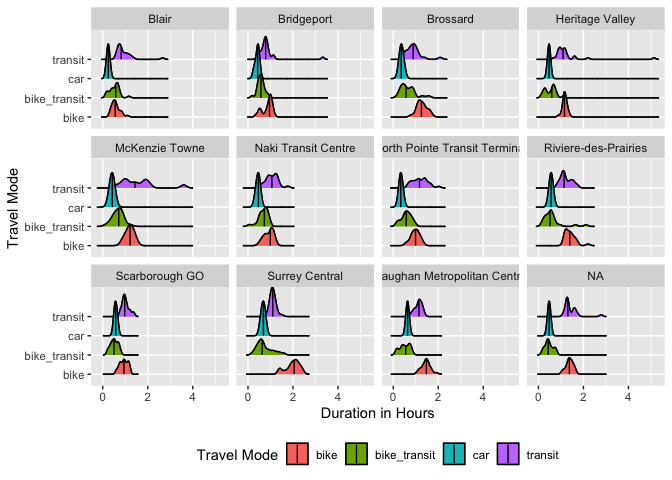
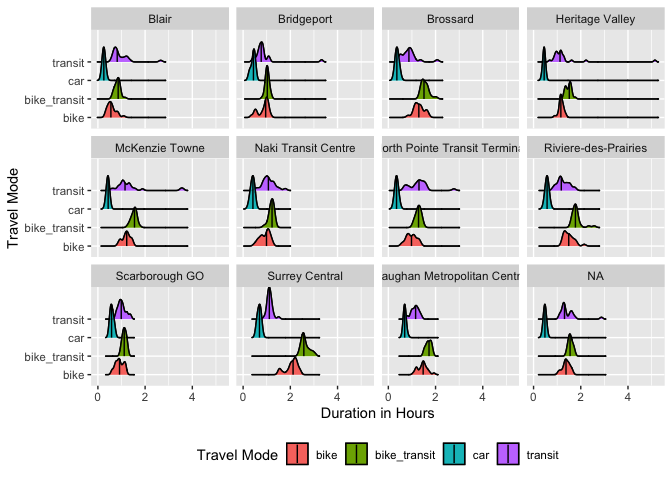
Rerun analysis after error fix from bike+transit calculation

diff --git a/data_analysis.md b/data_analysis.md
@@ -123,7 +123,7 @@ Once all of the routes were calculated the travel time and travel distance eleme
 ## Joining Data
 
 
-```r
+``` r
 data <- bind_rows(barrhaven, blair, scar, vaughn, bross, rivier, mckenzie, np, heritage, naki, surrey, bridge)
 
 data_bike <- bind_rows(barrhaven_bike, blair_bike, scar_bike, vaughn_bike, bross_bike, rivier_bike, mckenzie_bike, np_bike, heritage_bike, naki_bike, surrey_bike, bridge_bike)
@@ -133,7 +133,7 @@ write_csv(data_bike, file = "bike_transit_city_data.csv")
 ```
 
 
-```r
+``` r
 summary_data <- data %>% 
   group_by(station) %>%
     summarize(n = n())
@@ -165,7 +165,7 @@ Descriptive analysis will be conducted to describe the trip time and distance fo
 ##### Table 2. Descriptive statisics for travel time and mode by trip type by station
 
 
-```r
+``` r
 rm_covsum(data=data, maincov = 'station', pvalue = FALSE, IQR = TRUE,
 covs=c('distance_km','duration_hours'))
 ```
@@ -208,35 +208,35 @@ covs=c('distance_km','duration_hours'))
   </tr>
   <tr>
    <td style="text-align:left;padding-left: 2em;" indentlevel="1"> Mean (sd) </td>
-   <td style="text-align:right;"> 22.2 (7.8) </td>
+   <td style="text-align:right;"> 22.1 (7.8) </td>
    <td style="text-align:right;"> 28.1 (4.3) </td>
-   <td style="text-align:right;"> 11.5 (3.4) </td>
+   <td style="text-align:right;"> 11.5 (3.5) </td>
    <td style="text-align:right;"> 14.0 (3.6) </td>
-   <td style="text-align:right;"> 22.4 (5.0) </td>
-   <td style="text-align:right;"> 22.1 (4.2) </td>
-   <td style="text-align:right;"> 25.2 (4.3) </td>
-   <td style="text-align:right;"> 17.5 (4.1) </td>
-   <td style="text-align:right;"> 20.3 (4.9) </td>
-   <td style="text-align:right;"> 24.5 (5.2) </td>
-   <td style="text-align:right;"> 17.8 (3.5) </td>
-   <td style="text-align:right;"> 33.6 (5.7) </td>
-   <td style="text-align:right;"> 29.5 (7.0) </td>
+   <td style="text-align:right;"> 22.6 (5.2) </td>
+   <td style="text-align:right;"> 22.2 (4.1) </td>
+   <td style="text-align:right;"> 25.3 (5.2) </td>
+   <td style="text-align:right;"> 16.9 (4.3) </td>
+   <td style="text-align:right;"> 20.4 (5.0) </td>
+   <td style="text-align:right;"> 24.6 (5.1) </td>
+   <td style="text-align:right;"> 17.6 (3.5) </td>
+   <td style="text-align:right;"> 34.3 (6.0) </td>
+   <td style="text-align:right;"> 27.6 (5.4) </td>
   </tr>
   <tr>
    <td style="text-align:left;padding-left: 2em;" indentlevel="1"> Median (Q1,Q3) </td>
-   <td style="text-align:right;"> 21.6 (16.6, 27.3) </td>
-   <td style="text-align:right;"> 28.1 (25.1, 30.7) </td>
-   <td style="text-align:right;"> 11.4 (8.9, 14.7) </td>
-   <td style="text-align:right;"> 15.1 (12.0, 16.3) </td>
-   <td style="text-align:right;"> 21.9 (18.9, 25.6) </td>
-   <td style="text-align:right;"> 21.9 (19.8, 23.9) </td>
-   <td style="text-align:right;"> 25.7 (22.3, 28.3) </td>
-   <td style="text-align:right;"> 18.7 (15.1, 20.2) </td>
-   <td style="text-align:right;"> 19.9 (16.5, 23.8) </td>
-   <td style="text-align:right;"> 24.6 (20.3, 27.5) </td>
-   <td style="text-align:right;"> 18.5 (15.0, 19.9) </td>
-   <td style="text-align:right;"> 33.2 (29.7, 38.1) </td>
-   <td style="text-align:right;"> 28.2 (24.4, 33.2) </td>
+   <td style="text-align:right;"> 21.6 (16.5, 27.3) </td>
+   <td style="text-align:right;"> 28.0 (25.3, 30.7) </td>
+   <td style="text-align:right;"> 11.5 (8.8, 14.7) </td>
+   <td style="text-align:right;"> 15.1 (12.4, 16.4) </td>
+   <td style="text-align:right;"> 22.3 (18.9, 26.0) </td>
+   <td style="text-align:right;"> 21.8 (19.8, 23.9) </td>
+   <td style="text-align:right;"> 25.6 (21.9, 28.8) </td>
+   <td style="text-align:right;"> 17.6 (14.0, 20.1) </td>
+   <td style="text-align:right;"> 20.0 (16.5, 23.7) </td>
+   <td style="text-align:right;"> 24.9 (20.8, 27.7) </td>
+   <td style="text-align:right;"> 18.2 (15.0, 19.9) </td>
+   <td style="text-align:right;"> 33.7 (30.2, 39.2) </td>
+   <td style="text-align:right;"> 27.3 (24.0, 30.3) </td>
   </tr>
   <tr>
    <td style="text-align:left;"> <span style="font-weight: bold;">duration hours</span> </td>
@@ -256,35 +256,35 @@ covs=c('distance_km','duration_hours'))
   </tr>
   <tr>
    <td style="text-align:left;padding-left: 2em;" indentlevel="1"> Mean (sd) </td>
-   <td style="text-align:right;"> 0.8 (0.5) </td>
-   <td style="text-align:right;"> 0.9 (0.5) </td>
-   <td style="text-align:right;"> 0.6 (0.4) </td>
+   <td style="text-align:right;"> 1.1 (0.5) </td>
+   <td style="text-align:right;"> 1.2 (0.5) </td>
    <td style="text-align:right;"> 0.7 (0.4) </td>
    <td style="text-align:right;"> 0.8 (0.4) </td>
-   <td style="text-align:right;"> 0.9 (0.6) </td>
-   <td style="text-align:right;"> 1.0 (0.6) </td>
-   <td style="text-align:right;"> 0.8 (0.3) </td>
-   <td style="text-align:right;"> 0.8 (0.4) </td>
    <td style="text-align:right;"> 1.0 (0.5) </td>
-   <td style="text-align:right;"> 0.8 (0.3) </td>
+   <td style="text-align:right;"> 1.1 (0.6) </td>
    <td style="text-align:right;"> 1.1 (0.6) </td>
    <td style="text-align:right;"> 0.9 (0.4) </td>
+   <td style="text-align:right;"> 1.0 (0.5) </td>
+   <td style="text-align:right;"> 1.3 (0.5) </td>
+   <td style="text-align:right;"> 0.9 (0.2) </td>
+   <td style="text-align:right;"> 1.6 (0.8) </td>
+   <td style="text-align:right;"> 1.2 (0.4) </td>
   </tr>
   <tr>
    <td style="text-align:left;padding-left: 2em;" indentlevel="1"> Median (Q1,Q3) </td>
-   <td style="text-align:right;"> 0.7 (0.5, 1.1) </td>
-   <td style="text-align:right;"> 0.9 (0.5, 1.4) </td>
-   <td style="text-align:right;"> 0.6 (0.3, 0.7) </td>
-   <td style="text-align:right;"> 0.6 (0.5, 0.8) </td>
-   <td style="text-align:right;"> 0.8 (0.4, 1.1) </td>
-   <td style="text-align:right;"> 0.8 (0.5, 1.1) </td>
-   <td style="text-align:right;"> 0.9 (0.5, 1.2) </td>
+   <td style="text-align:right;"> 1.1 (0.6, 1.4) </td>
+   <td style="text-align:right;"> 1.4 (0.9, 1.5) </td>
+   <td style="text-align:right;"> 0.7 (0.3, 0.8) </td>
    <td style="text-align:right;"> 0.8 (0.5, 1.0) </td>
-   <td style="text-align:right;"> 0.8 (0.4, 1.1) </td>
-   <td style="text-align:right;"> 0.9 (0.6, 1.3) </td>
-   <td style="text-align:right;"> 0.7 (0.6, 1.0) </td>
-   <td style="text-align:right;"> 1.0 (0.7, 1.4) </td>
-   <td style="text-align:right;"> 0.8 (0.6, 1.3) </td>
+   <td style="text-align:right;"> 1.1 (0.5, 1.4) </td>
+   <td style="text-align:right;"> 1.2 (0.6, 1.3) </td>
+   <td style="text-align:right;"> 1.2 (0.5, 1.4) </td>
+   <td style="text-align:right;"> 1.0 (0.5, 1.2) </td>
+   <td style="text-align:right;"> 1.1 (0.6, 1.3) </td>
+   <td style="text-align:right;"> 1.4 (0.8, 1.7) </td>
+   <td style="text-align:right;"> 0.9 (0.7, 1.1) </td>
+   <td style="text-align:right;"> 1.5 (0.9, 2.4) </td>
+   <td style="text-align:right;"> 1.3 (0.8, 1.6) </td>
   </tr>
 </tbody>
 </table>
@@ -294,7 +294,7 @@ Across of the stations the longest travel time on average was Surrey Central Sta
 ##### Table 3. Descriptive statisics for travel time and mode by trip type
 
 
-```r
+``` r
 rm_covsum(data=data, maincov = 'mode', pvalue = FALSE, IQR = TRUE,
 covs=c('distance_km','duration_hours'))
 ```
@@ -321,19 +321,19 @@ covs=c('distance_km','duration_hours'))
   </tr>
   <tr>
    <td style="text-align:left;padding-left: 2em;" indentlevel="1"> Mean (sd) </td>
-   <td style="text-align:right;"> 22.2 (7.8) </td>
-   <td style="text-align:right;"> 20.6 (7.0) </td>
-   <td style="text-align:right;"> 25.3 (7.3) </td>
-   <td style="text-align:right;"> 22.1 (9.1) </td>
-   <td style="text-align:right;"> 21.0 (6.8) </td>
+   <td style="text-align:right;"> 22.1 (7.8) </td>
+   <td style="text-align:right;"> 20.6 (7.1) </td>
+   <td style="text-align:right;"> 25.4 (7.6) </td>
+   <td style="text-align:right;"> 21.2 (8.3) </td>
+   <td style="text-align:right;"> 21.2 (7.0) </td>
   </tr>
   <tr>
    <td style="text-align:left;padding-left: 2em;" indentlevel="1"> Median (Q1,Q3) </td>
-   <td style="text-align:right;"> 21.6 (16.6, 27.3) </td>
-   <td style="text-align:right;"> 20.0 (16.2, 25.2) </td>
-   <td style="text-align:right;"> 25.5 (19.9, 29.2) </td>
-   <td style="text-align:right;"> 20.3 (15.5, 28.2) </td>
-   <td style="text-align:right;"> 20.6 (16.2, 26.0) </td>
+   <td style="text-align:right;"> 21.6 (16.5, 27.3) </td>
+   <td style="text-align:right;"> 20.0 (15.5, 25.1) </td>
+   <td style="text-align:right;"> 25.6 (19.9, 29.3) </td>
+   <td style="text-align:right;"> 19.9 (14.8, 26.5) </td>
+   <td style="text-align:right;"> 21.0 (16.2, 25.9) </td>
   </tr>
   <tr>
    <td style="text-align:left;"> <span style="font-weight: bold;">duration hours</span> </td>
@@ -345,17 +345,17 @@ covs=c('distance_km','duration_hours'))
   </tr>
   <tr>
    <td style="text-align:left;padding-left: 2em;" indentlevel="1"> Mean (sd) </td>
-   <td style="text-align:right;"> 0.8 (0.5) </td>
+   <td style="text-align:right;"> 1.1 (0.5) </td>
    <td style="text-align:right;"> 1.2 (0.4) </td>
-   <td style="text-align:right;"> 0.6 (0.3) </td>
+   <td style="text-align:right;"> 1.5 (0.5) </td>
    <td style="text-align:right;"> 0.5 (0.1) </td>
-   <td style="text-align:right;"> 1.2 (0.5) </td>
+   <td style="text-align:right;"> 1.1 (0.5) </td>
   </tr>
   <tr>
    <td style="text-align:left;padding-left: 2em;" indentlevel="1"> Median (Q1,Q3) </td>
-   <td style="text-align:right;"> 0.7 (0.5, 1.1) </td>
+   <td style="text-align:right;"> 1.1 (0.6, 1.4) </td>
    <td style="text-align:right;"> 1.2 (0.9, 1.4) </td>
-   <td style="text-align:right;"> 0.6 (0.4, 0.7) </td>
+   <td style="text-align:right;"> 1.4 (1.1, 1.7) </td>
    <td style="text-align:right;"> 0.5 (0.4, 0.6) </td>
    <td style="text-align:right;"> 1.1 (0.9, 1.3) </td>
   </tr>
@@ -368,7 +368,7 @@ On average across all modes the trip duration was 48 minutes with a mean distanc
 ##### Table 4. Descriptive statisics for physical activity contribution
 
 
-```r
+``` r
 rm_covsum(data=data_bike, pvalue = FALSE, IQR = TRUE,
 covs=c('bike_to_station_duration_hours'))
 ```
@@ -401,7 +401,7 @@ On average the bike to the transit station was 18minutes long with an interquart
 ##### Figure 4. Visualization of travel time by mode and city
 
 
-```r
+``` r
 viz <- ggplot(data, aes(x = duration_hours, y = mode, fill = mode)) +
   geom_density_ridges() + 
   stat_density_ridges(quantile_lines = TRUE, alpha = 0.75, quantiles = 2) +
@@ -415,7 +415,7 @@ plot(viz)
 
 ![](data_analysis_files/figure-html/unnamed-chunk-8-1.png)<!-- -->
 
-```r
+``` r
 ggsave("viz.pdf", dpi = 300, height = 5, width = 8)
 ```
 
